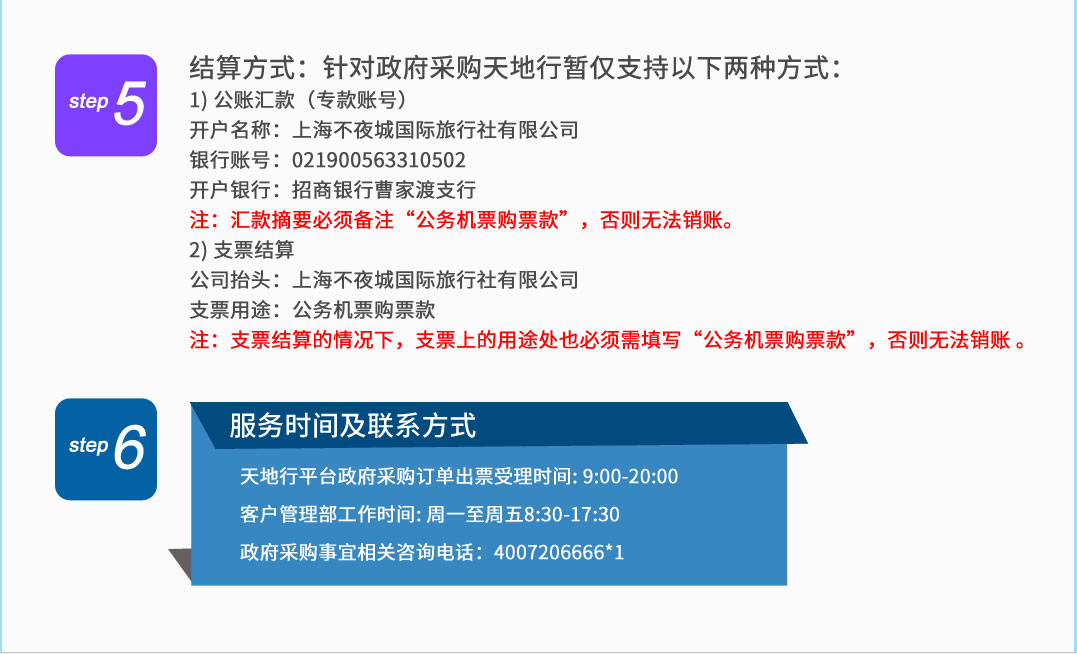
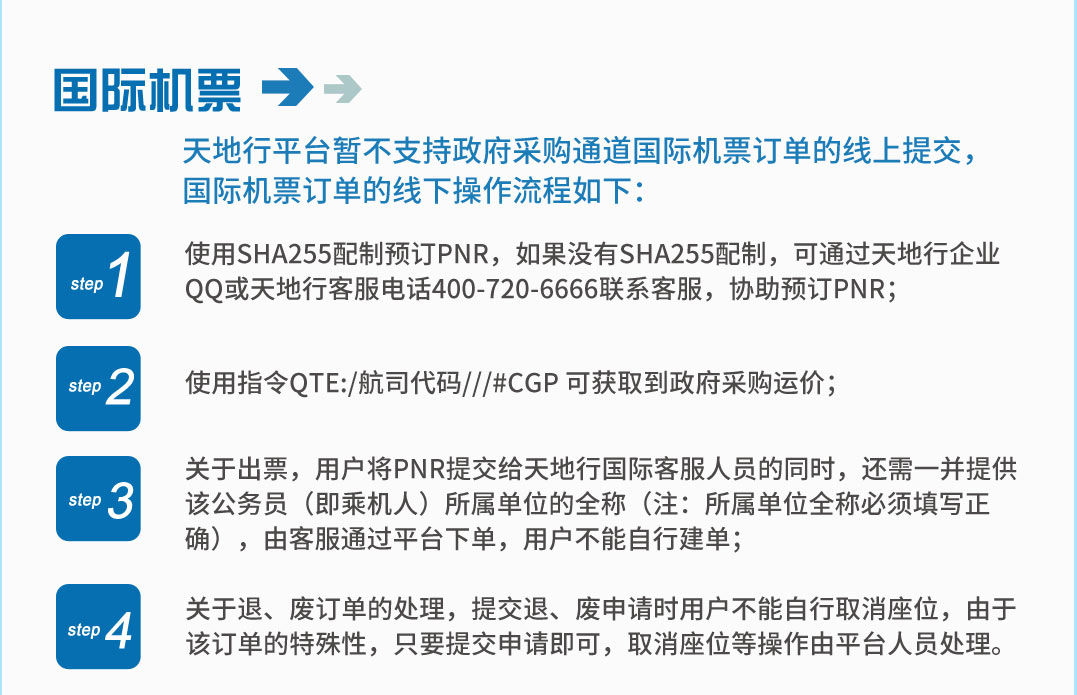
重做采购商 政府流程专题而

diff --git a/static/special/css/store_publicity.css b/static/special/css/store_publicity.css
@@ -1239,15 +1239,19 @@ footer.tiny-footer{ color:#969696;  background-color:#EAEAEA; border-top:1px sol
 }
 .zhengfuliucheng_block01 {
     background: url("../images/zhengFuLiuCheng01.jpg") 50% 0  no-repeat;
-    height:663px;
+    height:753px;
 }
 .zhengfuliucheng_block02 {
     background: url("../images/zhengFuLiuCheng02.jpg") 50% 0  no-repeat;
-    height:605px;
+    height:813px;
 }
 .zhengfuliucheng_block03 {
     background: url("../images/zhengFuLiuCheng03.jpg") 50% 0  no-repeat;
-    height:654px;
+    height:695px;
+}
+.zhengfuliucheng_block04 {
+    background: url("../images/zhengFuLiuCheng04.jpg") 50% 0  no-repeat;
+    height:612px;
 }
 
 

diff --git a/static/special/source/zhengfuliucheng.html b/static/special/source/zhengfuliucheng.html
@@ -37,7 +37,8 @@
     <div class="inContent_zhengfuliucheng">
         <div class="zhengfuliucheng_block01"></div>
         <div class="zhengfuliucheng_block02"></div>
-       <div class="zhengfuliucheng_block03"></div>
+        <div class="zhengfuliucheng_block03"></div>
+        <div class="zhengfuliucheng_block04"></div>
     </div>
     <!--body end-->
 </section>
